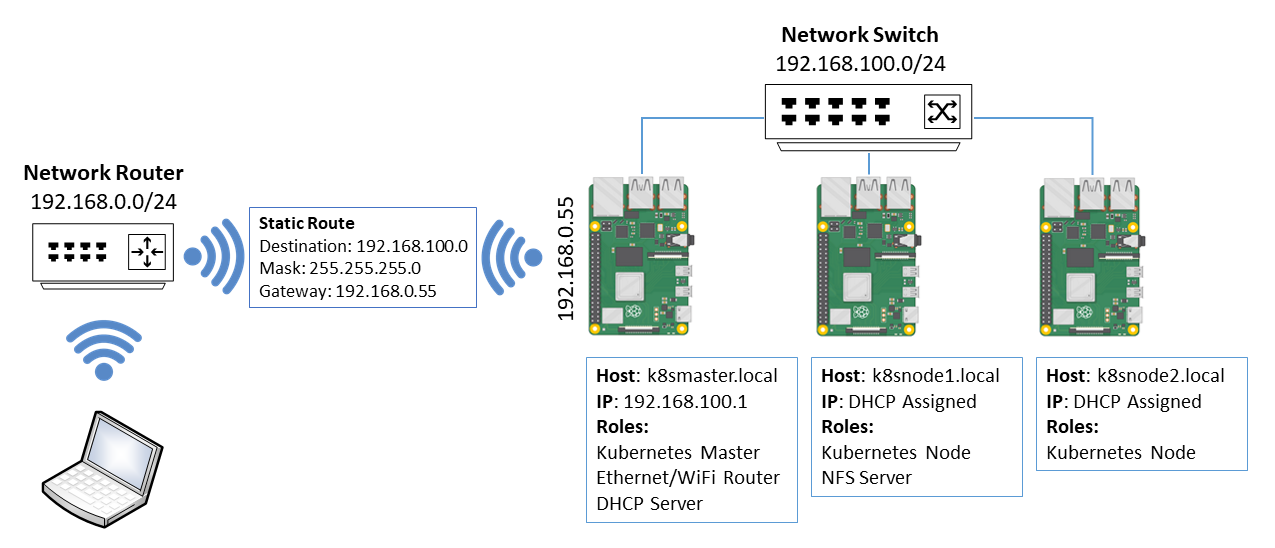
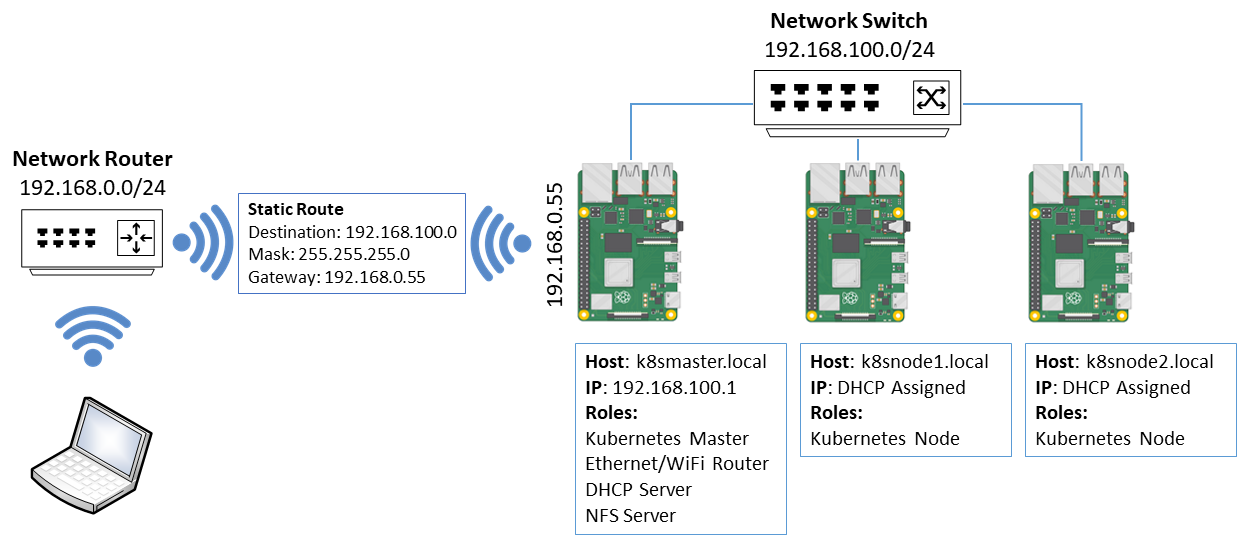
doco

Changed region(s): [[0.0, 0.0311, 1.0, 0.9634], [0.0, 0.5594, 0.125, 0.9634], [0.9688, 0.808, 1.0, 0.8391]]

diff --git a/README.md b/README.md
@@ -183,9 +183,9 @@ bash -c "$(curl https://raw.githubusercontent.com/gloveboxes/Raspberry-Pi-Kubern
 
 #### Step 3: Number the Kubernetes Node
 
-You will be prompted to number the Kubernetes Node. Ensure you have one node numbered **1** as NFS Server will be installed on Node **1** and is required for Kubernetes Persistent Storage.
+You will be prompted to number the Kubernetes Node. Number from 1 to n, where n is the number of Kubernetes Nodes you plan to provision.
 
-#### Step 4: Enable Boot from SSD
+#### Step 4: Enable Boot from USB3 SSD
 
 Is you have USB3 attached SSD Storage then select this option. The installation script assumes the USB SSD Drive is located at **/dev/sda**. The scripts starts **fdisk**, you need to create a clean disk partition. Follow these steps:
 
@@ -295,10 +295,9 @@ Click the following link to open the Kubernetes Dashboard. Select **Token** auth
 
 ## Kubernetes Cluster Persistence Storage
 
-NFS Server installed on k8snode1.local
+NFS Server installed on k8smaster.local
 
-1. Set up by Kubernetes Master and k8snode1.local installation.
-2. Provisioned by Kubernetes Master installation script.
+2. Installed and provisioned by Kubernetes Master installation script.
 3. The following diagram describes how persistent storage is configured in the cluster.
 
     ![persistent storage](Resources/nfs-server.png)
